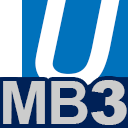
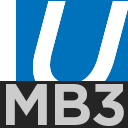
Revisions

diff --git a/popup.js b/popup.js
@@ -290,6 +290,9 @@ function todayUp() {
 
 	// Save the state of the extension
 	currentFunc('todayUp');
+
+	// Setup the extension logo to active
+	chrome.browserAction.setIcon({ path: "Icons/Icon_48_active.png" });
 	
 	$('#logo').hide();
 	$('#shortenedLogo').show();
@@ -325,7 +328,7 @@ function todayUp() {
 
 	        	var resp = $.ajax({
 				type: "GET",
-				url: ipStorage + ":" + portStorage + "/mediabrowser/Shows/Upcoming?UserId=" + userId + "&Limit=30&Fields=AirTime",
+				url: ipStorage + ":" + portStorage + "/mediabrowser/Shows/Upcoming?UserId=" + userId + "&Limit=30&Fields=AirTime,SeriesStudio",
 				headers: header,
 				dataType: "json",
 				contentType: "application/json"
@@ -344,27 +347,18 @@ function todayUp() {
 					
 					if (shortDate == date) {
 
-						var parentId = val.SeriesId;	
-						// Get the studios for each episode pulled
-						/*var resp = $.ajax({
-							type: "GET",
-							url: ipStorage + ":" + portStorage + "/mediabrowser/Studios?UserId" + userId,
-							headers: header,
-							dataType: "json",
-							contentType: "application/json"
-						}).done(function(data) {
-							console.log(data);
-						});*/
-
 						// To display: Image, Series Name, S00E00,
-						// Episode name, Air time, Network if possible
-						var bannerImage = "background-image:url('" + ipStorage + ":" + portStorage + "/mediabrowser/Items/" + val.SeriesId + "/Images/banner')";
+						// Episode name, Air time, Studios
+						var bannerImage = "background-image:url('" + ipStorage + ":" + portStorage + "/mediabrowser/Items/" + val.SeriesId + "/Images/banner?Width=366&Height=68')";
 						var episode = (val.Name).substring(0, 25);
 						var series = val.SeriesName;
 						var seasonEp = ("S" + val.ParentIndexNumber + ", E" + val.IndexNumber);
 						var airTime = val.AirTime
+						var studio = val.SeriesStudio
 						var available = "";
 						
+						// Verify if a banner exists
+
 						// Verify if airtime is undefined
 						if (airTime == undefined) {
 
@@ -388,6 +382,12 @@ function todayUp() {
 						upItems.push("<div class=\"posterThumb\"><div class=\"bannerItemImage\" style=\"" + bannerImage + "\"></div><div class=\"infoPanel\"><div class=\"seriesLink\">" + available + "</div><div class=\"seriesEp\">" + seasonEp + " - " + episode + "</div><div class=\"airtime\">" + airTime + "</div></div></div>");	
 					}
 				});
+
+				// To display is no shows are available
+				if (upItems.length == 0) {
+					upItems.push("<p style=\"font-size:20px;\"><i>There is no upcoming shows. </i><i class=\"fa fa-frown-o\"></i></p>");
+
+				}
 
 				// Create a div upItems that contains series
 				$( "<div/>", {
@@ -516,9 +516,11 @@ function loginUser(id, dataUser, hasPassword) {
 
 				// Go to Today's upcoming
 				$('#user-login').fadeOut('slow', function() {
+					
 					// Go to Today's upcoming.
 					todayUp();
-				});		  	
+				});
+
 			}).fail(function(){
 				message('#msguser', "Wrong username or password.");
 			});
@@ -531,6 +533,8 @@ function loginUser(id, dataUser, hasPassword) {
 
 function logoutUser() {
 	
+	// Setup the icon to inactive 
+	chrome.browserAction.setIcon({ path: "Icon.png" });
 
 	// Make chrome storage sync
         async.auto({

diff --git a/popup.html b/popup.html
@@ -22,7 +22,7 @@
 					<td id="shortenedLogo" align="left" style="display:none;"><img src="Icons/mb3_logo.png"></td>
 					<td id="upcoming" align="left"><i>-&nbsp;&nbsp;UPCOMING</i></td>
 					<td id="dateSelector" style="display:none;" style="font-size:50px;"><i class="fa fa-arrow-circle-left" style="font-size:20px;"></i>TODAY<i class="fa fa-arrow-circle-right" style="font-size:20px;"></i></td>
-					<td id="settings" style="display:none;"><i class="fa fa-gears" style="font-size:18px;"></i></td>
+					<td id="settings" style="display:none;"><i class="fa fa-cog" style="font-size:18px;"></i></td>
 					<td id="header_signIn" align="right"></td>
 				</tr>
 			</table>
@@ -94,7 +94,7 @@
 				<div id="userSelect"></div> <!-- Display user list or manual login -->
 			</div>
 			
-			<div id="todayUp" align="center"></div>
+			<div id="todayUp" align="center" style="display:none;"></div>
 		</div>
 	</body>
   

diff --git a/css/style.css b/css/style.css
@@ -31,6 +31,7 @@ body	{
 	font-family: Calibri, Arial;
 	font-size: 14px;
 	color: #c2c2c2;
+	vertical-align: middle;
 }
 
 #logo {
@@ -76,12 +77,15 @@ body	{
 
 #bottom-background	{
 	background: #202020;
-	min-height: 152px;
 }
 
 
 
 /* Server information */
+
+#server-login {
+	min-height: 148px;
+}
 
 #table-login	{
 	padding-top: 15px;
@@ -169,7 +173,7 @@ body	{
 
 #userLogin {
 	padding-top: 20px;
-	height: 50px;
+	min-height: 148px;
 	color: #dad9d9;
 }
 
@@ -337,6 +341,7 @@ body	{
 #todayUp {
 	color: #dad9d9;
 	margin: 5px;
+	min-height: 115px;
 	max-height: 346px;
 	overflow: hidden;
 	overflow-y: scroll;
